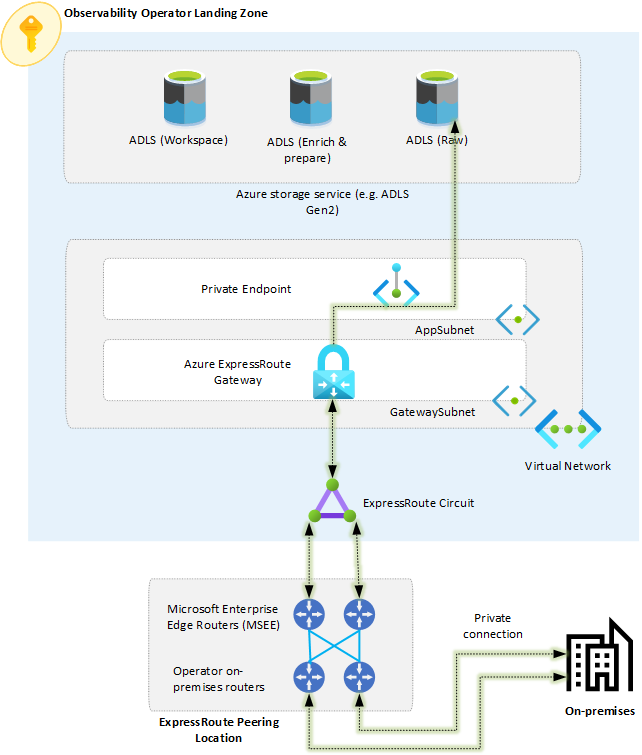
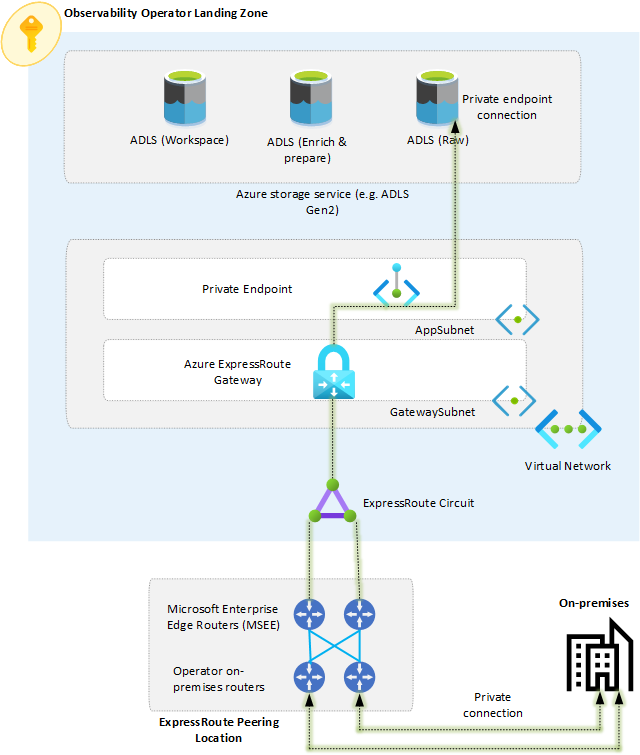
network updates

diff --git a/telco/solutions/observability/readme.md b/telco/solutions/observability/readme.md
@@ -49,7 +49,7 @@ _Figure 2: Connectivity to Azure storage over VPN._
 
 ### ExpressRoute (Private Peering)
 
-ExpressRoute provides a private connectivity that does not traverses the public internet. Thus, besides ensuring that all data is kept in a private network, predictable throughput and latency can be expected and ExpressRoute availability is backed by a 99.95% SLA. With private peering, all communication between on-premises and Azure is done via private IP addresses (typically RFC1918). This setup is depicted in figure 3 below:
+ExpressRoute provides a private connectivity that does not traverses the public internet. Thus, besides ensuring that network traffic is kept in a private network, predictable throughput and latency can be expected and ExpressRoute availability is backed by a 99.95% SLA. With private peering, all communication between on-premises and Azure is done via private IP addresses (typically RFC1918). This setup is depicted in figure 3 below:
 
 ![ExpressRoutePrivatePeering](./images/afo-observability-er-pp.png)
 
@@ -59,14 +59,27 @@ _Figure 3: Connectivity to Azure via ExpressRoute with private peering_
 
 #### Design recommendations
 
-### ExpressRoute (Microsoft Peering)
-
 - Use ExpressRoute as the main option to connect the on-premises operator network to Azure.
 - Use ExpressRoute direct if you require more than 10Gbps bandwidth.
-- Use ExpressRoute private peering when there is a relatively low amount of data to be ingested.
 - When using ExpressRoute private peering:
   - Ensure the Azure storage service (such as ADLS Gen2) is accesible via a private endpoint.
   - Enable FastPath on the ExpressRoute connection. This will remove the ExpressRoute Gateway from the data path. Note that it is still required for control plane operations.
+
+
+### ExpressRoute (Microsoft Peering)
+
+ExpressRoute provides a private connectivity that does not traverses the public internet. Thus, besides ensuring that network traffic is kept in a private network, predictable throughput and latency can be expected and ExpressRoute availability is backed by a 99.95% SLA. With Microsoft peering, all communication between on-premises and Azure is done via public IP addresses, that need to be verified by Microsoft. With Microsoft peering, it is possible to reach Azure storage services over a private connection and directly to their public endpoint without required any additional infrastructure on Azure. This setup is depicted in figure 4 below:
+
+![ExpressRouteMSFTPeering](./images/afo-observability-er-ms.png)
+
+_Figure 4: Connectivity to Azure via ExpressRoute with Microsoft peering_
+
+#### Design considerations
+
+#### Design recommendations
+
+- Use ExpressRoute as the main option to connect the on-premises operator network to Azure.
+- Use ExpressRoute direct if you require more than 10Gbps bandwidth.
 
 
 ## ELT
